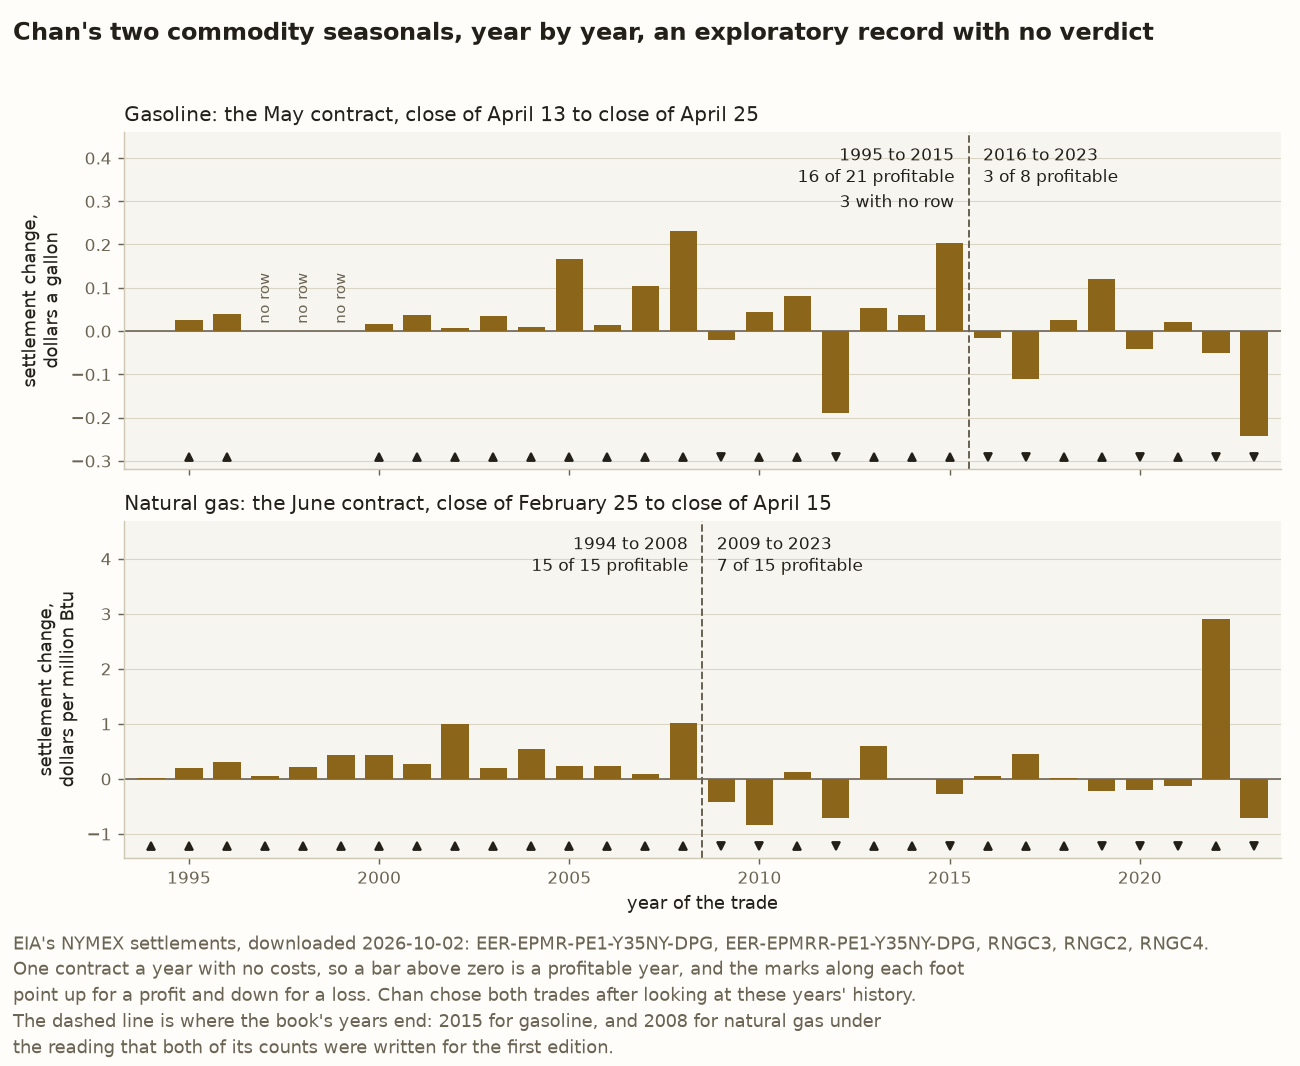
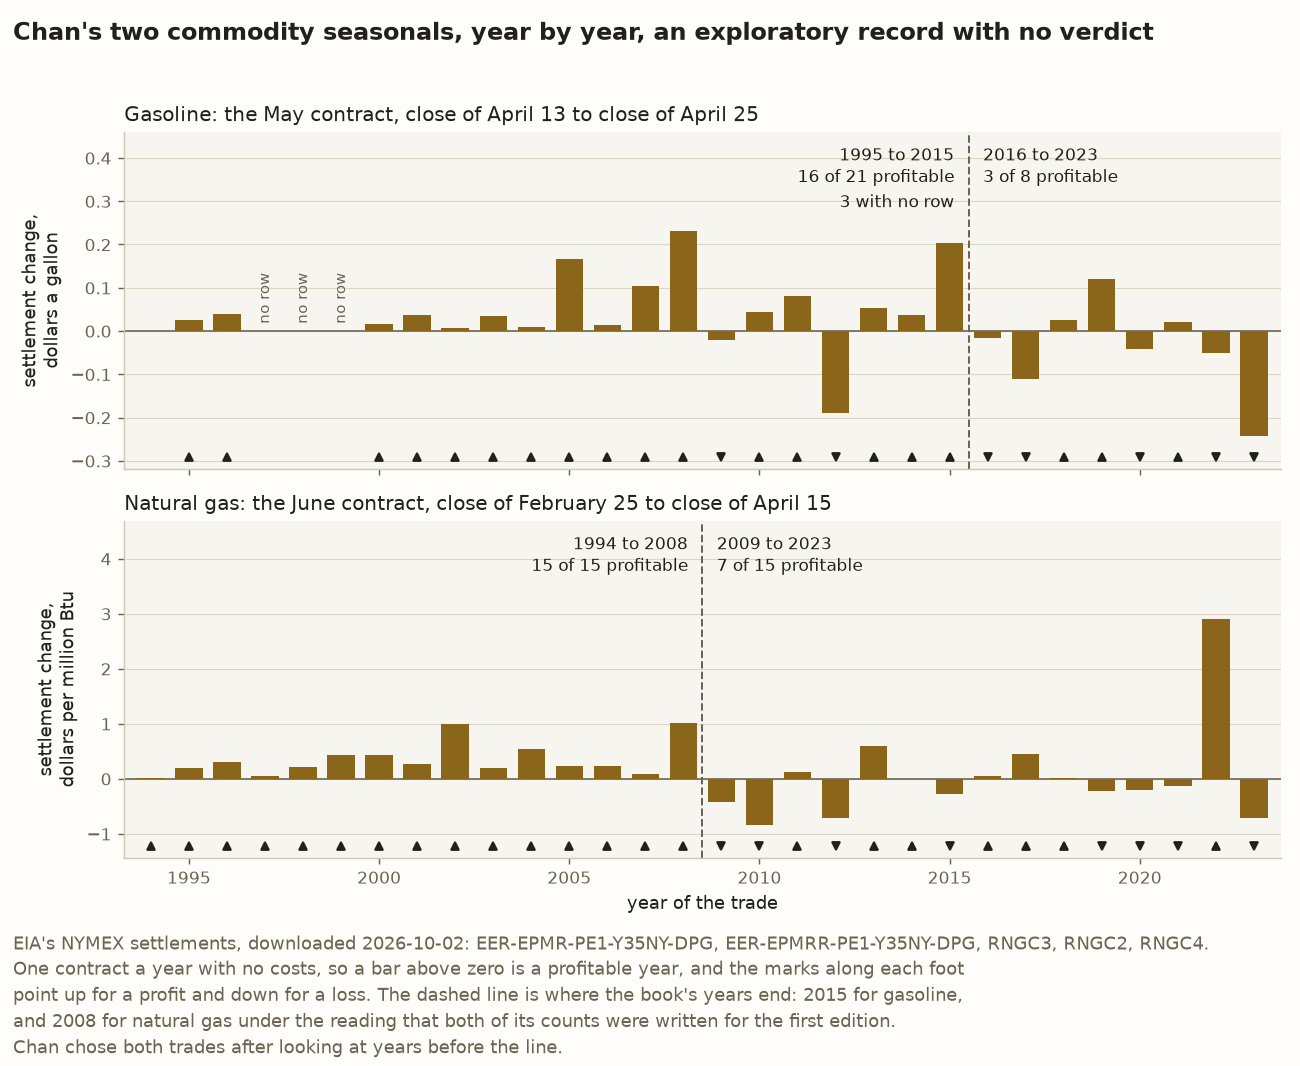
fix(blog): correct round 1's accuracy findings in the commodity seasonals post
Round 1's accuracy lens recomputed every count and date in the post from
the committed EIA files and found all of them right. A verifier then
confirmed seven wording claims that were wrong, and each is fixed on
every surface that carried it.

1. Chan did not look at every year the run reads. The run reads through
   2023, and the years after the book are the ones Lesson 3 tests. The
   post, Entry 11, both module docstrings and the figure's note now say
   Chan chose both trades from years before his book, and nobody wrote a
   test for the later years before computing them. The figure is redrawn
   and its pinned note follows.
2. The natural gas files hold a holiday row on every NYMEX holiday from
   January 2018 to November 2019 and on one other, 2014-01-20, out of 261
   from 1994 to 2023. Only 2 of 30 Good Fridays have one. The post and both
   docstrings said the files carry holidays as rows in general. A new test
   pins which holidays have rows.
3. The replication log cites Kindle locations 4529 to 4632 only, for pp.
   183 to 185. The post's references and README said it also cited 4303
   and 4637.
4. The March 1996 contract's handover happened in late February 1996.
5. After 2008 the natural gas losses and gains do not alternate. The alt
   text now says 8 losses and 7 gains in no regular order.
6. Nothing records which years Chan picked the natural gas rule from, so
   the third habit says only that he picked it from years before the book.
[…]

Changed region(s): [[0.0, 0.9287, 0.7385, 0.9906]]

diff --git a/src/chan/commodity_seasonals_figures.py b/src/chan/commodity_seasonals_figures.py
@@ -24,7 +24,8 @@ from 1994, both to 2023, the last year whose exit the files hold.
 Every bar takes one ink whatever its sign, and nothing is drawn in the verdict
 colours, because the figure grades nothing. The title says the record is
 exploratory, for the reason ``chan.commodity_seasonals`` gives: Chan chose both
-trades after looking at the history of the years the files hold.
+trades after looking at the years before the book, and nobody wrote down a test
+for the years after it.
 
 Every value comes from :mod:`chan.commodity_seasonals`, so the figure can only
 be wrong by drawing the wrong thing, which
@@ -194,10 +195,11 @@ def make_years_figure(trades: Trades | None = None, out: Path | None = None) -> 
         "Chan's two commodity seasonals, year by year, an exploratory record with no verdict",
         f"EIA's NYMEX settlements, downloaded {DOWNLOADED}: {symbols_read(gasoline, gas)}.\n"
         "One contract a year with no costs, so a bar above zero is a profitable year, and the "
-        "marks along each foot\npoint up for a profit and down for a loss. Chan chose both "
-        "trades after looking at these years' history.\nThe dashed line is where "
-        "the book's years end: 2015 for gasoline, and 2008 for natural gas under\n"
-        "the reading that both of its counts were written for the first edition.",
+        "marks along each foot\npoint up for a profit and down for a loss. "
+        "The dashed line is where the book's years end: 2015 for gasoline,\n"
+        "and 2008 for natural gas under "
+        "the reading that both of its counts were written for the first edition.\n"
+        "Chan chose both trades after looking at years before the line.",
     )
     fig.tight_layout(rect=(0, 0.125, 1, 0.96))
     return _save(fig, out, YEARS_FIGURE)

diff --git a/tests/test_commodity_seasonals.py b/tests/test_commodity_seasonals.py
@@ -80,6 +80,28 @@ class TestTheCalendar:
         assert rows[date(2018, 12, 25)] == rows[date(2018, 12, 24)]
         assert not is_trading_day(date(2018, 12, 25))
 
+    def test_holiday_rows_fill_2018_and_most_of_2019_and_almost_nothing_else(self) -> None:
+        """Which of NYMEX's 261 holidays from 1994 to 2023 the natural gas files hold a row on.
+
+        Every holiday from January 2018 to November 2019 has one, repeating the day
+        before in all four files, and outside those years only 2014-01-20 does. So
+        only 2 of the 30 Good Fridays have a row, and the post says so.
+        """
+        files = [settlements(NATURAL_GAS[number])[1] for number in (1, 2, 3, 4)]
+        holidays = sorted(day for year in range(1994, 2024) for day in futures.nymex_holidays(year))
+        rowed = [day for day in holidays if any(day in rows for rows in files)]
+        assert len(holidays) == 261
+        late = [day for day in holidays if date(2018, 1, 1) <= day <= date(2019, 11, 30)]
+        assert rowed == [date(2014, 1, 20), *late]
+        for day in rowed:
+            before = futures.previous_trading_day(day)
+            assert all(rows[day] == rows[before] for rows in files)
+        good_fridays = [futures.good_friday(year) for year in range(1994, 2024)]
+        assert [day for day in good_fridays if day in rowed] == [
+            date(2018, 3, 30),
+            date(2019, 4, 19),
+        ]
+
     def test_good_friday_moves_exactly_these_trade_dates(self) -> None:
         """Every trade date in 1994 to 2023 that Good Friday moved, against weekends alone."""
         moved = []

diff --git a/src/chan/commodity_seasonals.py b/src/chan/commodity_seasonals.py
@@ -42,16 +42,19 @@ and RBOB from 2006. :func:`gasoline_trade` takes the other contract for 2006
 when asked, which the run prints as a side row.
 
 **The calendar is computed rather than read from the files.** The natural gas
-files carry exchange holidays as rows repeating the day before's settlement, so
-a row's presence does not say the exchange was open.
+files hold a row repeating the day before's settlement on every exchange holiday
+from January 2018 to November 2019, and on almost none in other years, so a
+row's presence does not say the exchange was open.
 :func:`chan.futures.is_trading_day` uses NYMEX's holiday rules instead. Of
 those holidays only Good Friday can land on a date this module reads. The
 calendar and the expiry rules live in :mod:`chan.futures`, because the
 calendar-spread test reads them too.
 
 Every result here is **exploratory**. Chan chose both trades after looking at
-the same history the run reads, so the run says whether his counts reproduce
-and nothing about whether either trade pays today.
+years before his book, which the run also reads, so on those years the run says
+whether his counts reproduce. Nobody wrote down a test for the years after the
+book before the run computed them, so the run says nothing about whether either
+trade pays today.
 
 A settlement is a ``Decimal`` as its file spells it, which
 :func:`chan.futures.settlements` reads, so a zero change reads as zero rather

diff --git a/tests/test_commodity_seasonals_figures.py b/tests/test_commodity_seasonals_figures.py
@@ -247,10 +247,9 @@ class TestTheWords:
             f"EIA's NYMEX settlements, downloaded 2026-10-02: {', '.join(symbols)}. "
             "One contract a year with no costs, so a bar above zero is a profitable year, "
             "and the marks along each foot point up for a profit and down for a loss. "
-            "Chan chose both trades after looking at these years' history. "
             "The dashed line is where the book's years end: 2015 for gasoline, and 2008 for "
             "natural gas under the reading that both of its counts were written for the "
-            "first edition."
+            "first edition. Chan chose both trades after looking at years before the line."
         )
 
     def test_no_label_is_parsed_as_math(self, figure) -> None:

diff --git a/src/chan/futures.py b/src/chan/futures.py
@@ -21,8 +21,9 @@ month into a file number on one day. :data:`NATURAL_GAS_CONTRACTS` and
 :data:`RBOB_CONTRACTS` name each product's four files and its expiry rule.
 
 **The calendar is computed rather than read from the files.** The natural gas
-files carry exchange holidays as rows repeating the day before's settlement, so
-a row's presence does not say the exchange was open. :func:`is_trading_day`
+files hold a row repeating the day before's settlement on every exchange holiday
+from January 2018 to November 2019, and on almost none in other years, so a
+row's presence does not say the exchange was open. :func:`is_trading_day`
 uses NYMEX's holiday rules instead.
 
 **The expiry rules were checked two ways.** Against the last trading days the

diff --git a/blog/commodity-seasonals-lessons.md b/blog/commodity-seasonals-lessons.md
@@ -14,7 +14,7 @@ Chan gives two trades, each with a count of profitable years. This repository ra
 2. **Gasoline fits Chan’s count in every year the files have prices for.** Chan prints 19 profitable years of 21. The data shows the 2 losing years his count allows and no third, plus 3 years with no price on a trade date.
 3. **Both trades win fewer years after the years Chan counted.** Natural gas wins 15 of 15 years through 2008 and 7 of 15 after.
 
-Every result here is **exploratory**. Chan chose both trades after looking at the same years of history this run reads, so the run can say whether his counts reproduce and nothing about whether either trade pays today. The code is open source at [l3a0/quantitative-trading](https://github.com/l3a0/quantitative-trading).
+Every result here is **exploratory**. Chan chose both trades after looking at years before his book, which this run also reads, so on those years the run can say only whether his counts reproduce. Nobody wrote down a test for the years after the book before this repository computed them, and the run charges no costs, so those years cannot say whether either trade pays today. The code is open source at [l3a0/quantitative-trading](https://github.com/l3a0/quantitative-trading).
 
 ## The two trades and the files
 
@@ -31,7 +31,7 @@ The book gives each trade twice, once in the main text and once in a sidebar tha
 
 EIA publishes the settlement prices for free, for the nearest four contracts of each product. It numbers them by expiry rather than by month: contract 1 is whichever contract stops trading next. Each contract number has its own file, with a row for each day the file has a price, giving the date and that day’s settlement price.
 
-So the run has to work out which numbered file holds the May or June contract on each trade date, which Lesson 4 comes back to. The run reads five files from three series, all downloaded on 2 October 2026:
+So the run has to work out which numbered file holds the May or June contract on each trade date, which Lesson 4 comes back to. The run reads five files, covering three products, all downloaded on 2 October 2026:
 
 1. New York Harbor regular gasoline, contract 1, through 2005.
 2. RBOB gasoline, contract 1, from 2006. RBOB is the gasoline contract that replaced the New York Harbor one, and it began trading in October 2005.
@@ -113,7 +113,7 @@ For natural gas the trade went from winning every year to winning fewer than hal
 
 For gasoline, Chan marks the last 9 of his 21 years, 2007 to 2015, as out of sample. The trade won 7 of those 9, and both of its losing years fall among them. From 2016 to 2023, after the revised edition’s count ends, it won 3 of 8. Natural gas won 4 of the same 8.
 
-![Two panels of bar charts, one bar per year at the change in settlement price from entry to exit. The upper panel is gasoline, the May contract from the close of April 13 to the close of April 25, from 1995 to 2023 in dollars a gallon. Its years 1997, 1998 and 1999 are empty slots labelled “no row”. A dashed line after 2015 divides 1995 to 2015, 16 of 21 profitable with 3 with no row, from 2016 to 2023, 3 of 8 profitable. Bars before the line are mostly small and positive, with losses in 2009 and 2012, and five of the eight after it are losses. The lower panel is natural gas, the June contract from the close of February 25 to the close of April 15, from 1994 to 2023 in dollars per million Btu. A dashed line after 2008 divides 1994 to 2008, 15 of 15 profitable, from 2009 to 2023, 7 of 15 profitable. Every bar before the line is positive, and after it losses alternate with gains, including one gain near three dollars in 2022. Marks along the foot of each panel point up for each profitable year and down for each losing one.](../docs/figures/commodity_seasonals_years.png)
+![Two panels of bar charts, one bar per year at the change in settlement price from entry to exit. The upper panel is gasoline, the May contract from the close of April 13 to the close of April 25, from 1995 to 2023 in dollars a gallon. Its years 1997, 1998 and 1999 are empty slots labelled “no row”. A dashed line after 2015 divides 1995 to 2015, 16 of 21 profitable with 3 with no row, from 2016 to 2023, 3 of 8 profitable. Bars before the line are mostly small and positive, with losses in 2009 and 2012, and five of the eight after it are losses. The lower panel is natural gas, the June contract from the close of February 25 to the close of April 15, from 1994 to 2023 in dollars per million Btu. A dashed line after 2008 divides 1994 to 2008, 15 of 15 profitable, from 2009 to 2023, 7 of 15 profitable. Every bar before the line is positive. After it, 8 years are losses and 7 are gains, in no regular order, including one gain near three dollars in 2022. Marks along the foot of each panel point up for each profitable year and down for each losing one.](../docs/figures/commodity_seasonals_years.png)
 
 *Every year of both trades. Each dashed line is where the book’s years end, and the marks along each foot give every year’s sign, including years too small to see as bars.*
 
@@ -134,12 +134,12 @@ For gasoline the answer is simple. The May contract trades until the last busine
 Because the June contract moves between files, the expiry rule is part of the result, so the run checks it three ways.
 
 1. **Against the exchange’s own dates.** Massive, a market data vendor, records the last trading day the exchange set for each contract. For 16 contracts, March to June of 2017, 2018, 2021 and 2024, the rule gives the date Massive recorded. This repository read those 16 dates on 3 October 2026, and nothing in it can read them again, so the tests carry them as a measurement.
-2. **Against the files’ own handovers.** When a contract expires, every later contract moves up one number. So on the day after an expiry, each file’s price should carry on from the price the next-higher file showed the day before. Before mid-1997 the files show contracts stopping five or six trading days before delivery rather than three. In March 1996 the price handover fits a five-day rule and not a three-day one. Following the files moves the 1996 and 1997 entries from contract 4 to contract 3, and both years are profitable on either contract.
+2. **Against the files’ own handovers.** When a contract expires, every later contract moves up one number. So on the day after an expiry, each file’s price should carry on from the price the next-higher file showed the day before. Before mid-1997 the files show contracts stopping five or six trading days before delivery rather than three. For the March 1996 contract, the price handover in late February 1996 fits a five-day rule and not a three-day one. Following the files moves the 1996 and 1997 entries from contract 4 to contract 3, and both years are profitable on either contract.
 3. **Against the edge cases.** In 10 of the 30 years, the entry date falls on the March contract’s last trading day. Reading contract 3 instead of contract 4 on those days flips no year’s result, so on these files the choice between the two moves no count.
 
 A review after the first run made the correction in item 2, and it changed no count.
 
-The run computes its calendar of trading days and expiries rather than reading it from the files, for one more reason. The natural gas files carry exchange holidays as rows that repeat the day before’s settlement, so a row’s presence does not mean the exchange was open. Of NYMEX’s holidays, only Good Friday can land on a trade date, and it moved six trade dates between 1994 and 2023.
+The run computes its calendar of trading days and expiries rather than reading it from the files, for one more reason. On every exchange holiday from January 2018 to November 2019, the natural gas files hold a row that repeats the day before’s settlement, so a row’s presence does not mean the exchange was open. In other years they hold a row on almost no holiday. Of NYMEX’s holidays, only Good Friday can land on a trade date, and it moved six trade dates between 1994 and 2023.
 
 The same map from dates to contracts serves Chan’s calendar spreads, trades that buy one delivery month and sell another, tested on the same files. [The calendar spreads post](https://github.com/l3a0/quantitative-trading/blob/main/blog/calendar-spreads-lessons.md) reports what those spreads showed.
 
@@ -160,12 +160,12 @@ Three habits follow from the lessons above.
 
 1. **Ask a consecutive count where it starts and when it was written.** The same files give 13, 14 or 15 consecutive years for natural gas, depending on both.
 2. **Read a missing year as missing.** Three gaps in one file leave Chan’s gasoline count anywhere between 16 and 19, and filling them with a neighbouring day would decide the answer instead of checking it.
-3. **Judge a seasonal trade on the years after it was chosen.** Natural gas won every year through 2008 and fewer than half after, and the earlier years are the ones Chan picked its rule from.
+3. **Judge a seasonal trade on the years after it was chosen.** Natural gas won every year through 2008 and fewer than half after, and Chan picked its rule from years before the book.
 
 ## References
 
 - Chan, E. P. (2009). *Quantitative Trading: How to Build Your Own Algorithmic Trading Business*. Wiley. Released in November 2008.
-- Chan, E. P. (2021). *Quantitative Trading: How to Build Your Own Algorithmic Trading Business* (2nd ed.). Wiley. Pages 175 and 183 to 186. Page numbers here are the revised edition’s. The replication log cites the same passages by Kindle location, 4303 for p. 175 and 4529 to 4637 for pp. 183 to 186.
+- Chan, E. P. (2021). *Quantitative Trading: How to Build Your Own Algorithmic Trading Business* (2nd ed.). Wiley. Pages 175 and 183 to 186. Page numbers here are the revised edition’s. The replication log cites the passages on pp. 183 to 185 by Kindle location, 4529 to 4632.
 - US Energy Information Administration. NYMEX futures settlement prices, daily, for New York Harbor regular gasoline, RBOB gasoline and Henry Hub natural gas, contracts 1 to 4. Downloaded 2 October 2026.
 
 *Not investment advice. Code: [the two trades](https://github.com/l3a0/quantitative-trading/blob/main/src/chan/commodity_seasonals.py), [the calendar and expiry rules](https://github.com/l3a0/quantitative-trading/blob/main/src/chan/futures.py) and [the chart](https://github.com/l3a0/quantitative-trading/blob/main/src/chan/commodity_seasonals_figures.py), with the checks behind [the trades’ numbers](https://github.com/l3a0/quantitative-trading/blob/main/tests/test_commodity_seasonals.py) and [what the chart draws](https://github.com/l3a0/quantitative-trading/blob/main/tests/test_commodity_seasonals_figures.py), and the [replication log](https://github.com/l3a0/quantitative-trading/blob/main/docs/replication-log.md#entry-11-the-commodity-seasonals-chans-quantitative-trading) that sets each of Chan’s figures beside the one reproduced here.*

diff --git a/docs/replication-log.md b/docs/replication-log.md
@@ -3391,8 +3391,10 @@ no count. Three of the rules carry the result, so they are stated here.
    file counts neither way, rather than moving to another day.
 
 Every result here is **exploratory**. Chan chose both trades after looking at
-the history the run reads, so the entry says whether his counts reproduce and
-nothing about whether either trade pays today.
+years before his book, which the run also reads, so on those years the entry
+says whether his counts reproduce. Nobody wrote down a test for the years after
+the book before the run computed them, so the entry says nothing about whether
+either trade pays today.
 
 ### What the book printed
 

diff --git a/README.md b/README.md
@@ -3587,7 +3587,7 @@ replication log.
    checked against something the files do not supply.
 
 It cites the revised edition by page, while the replication log cites the
-same passages by Kindle location. Four groups of its figures are not pinned
+passages on pp. 183 to 185 by Kindle location. Four groups of its figures are not pinned
 here.
 
 1. Chan's words, each cited by its page in the revised edition. The pairing
